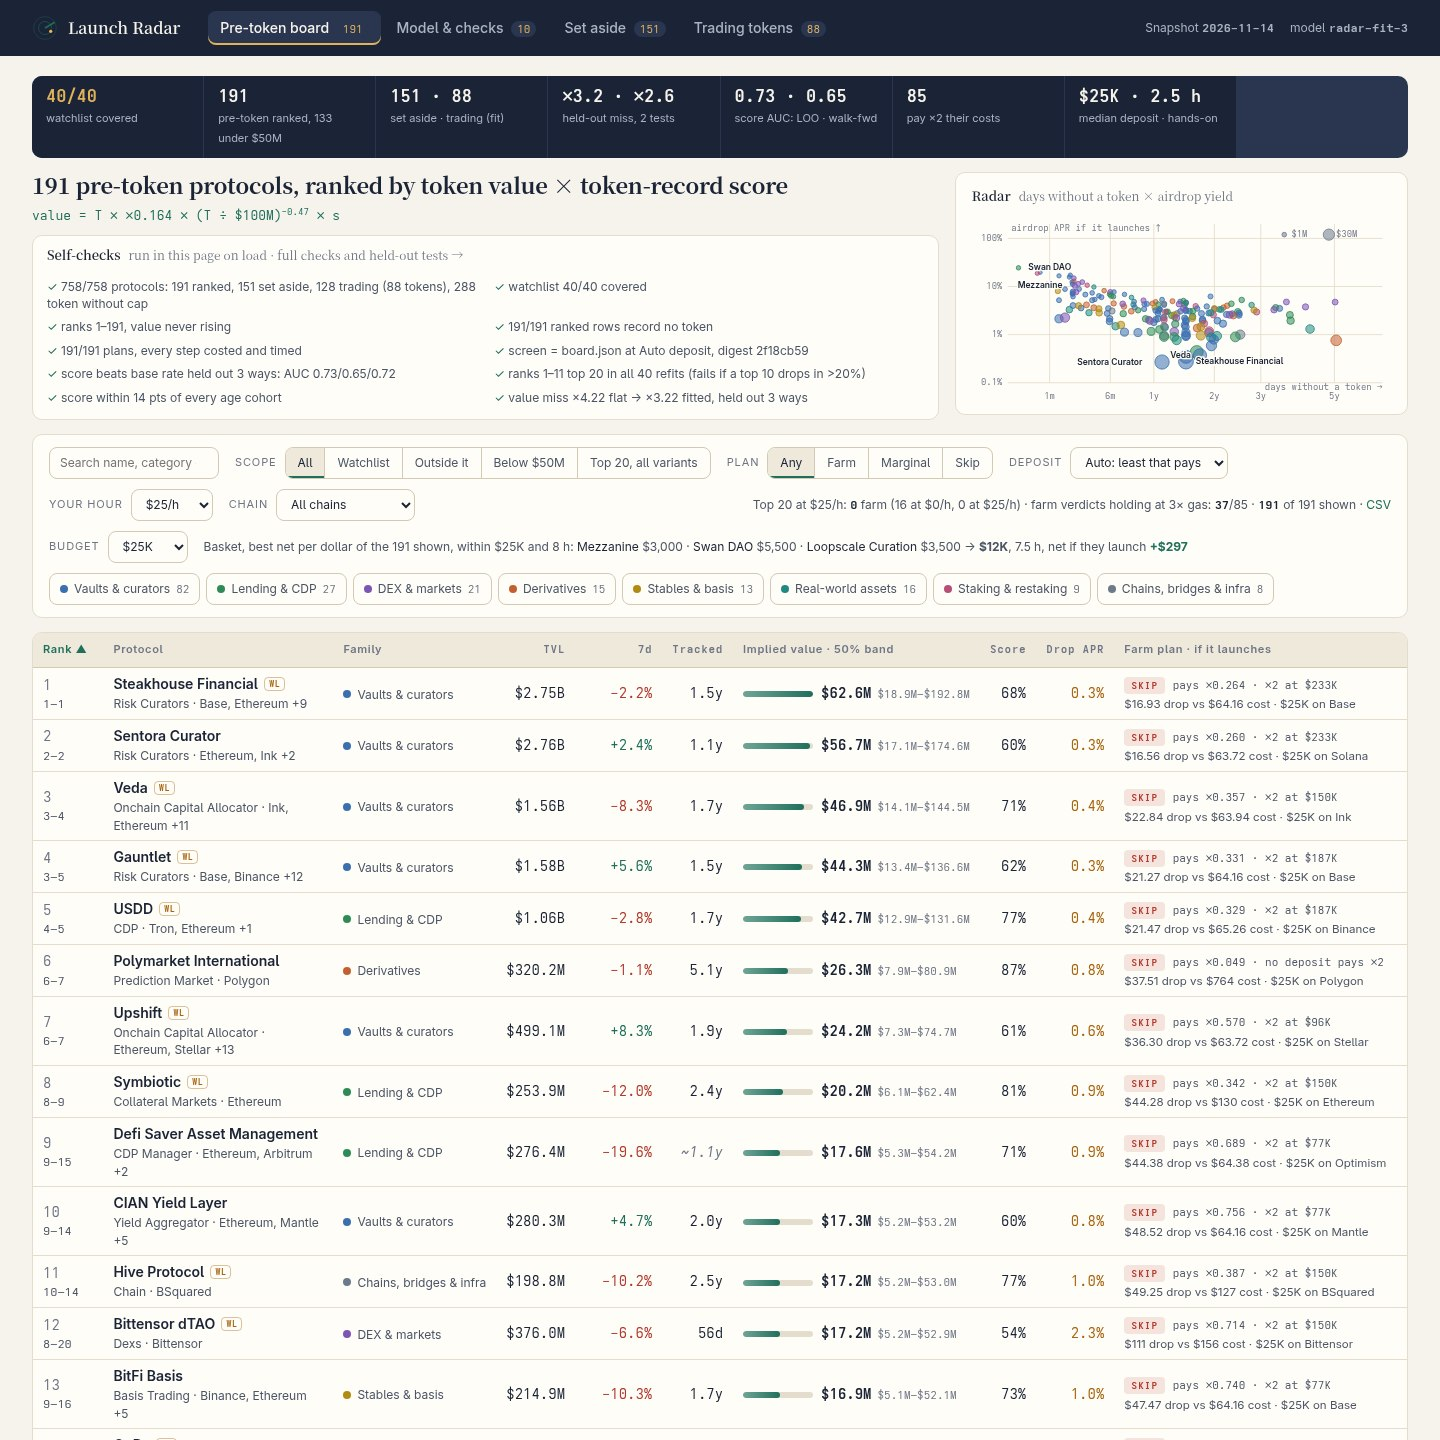
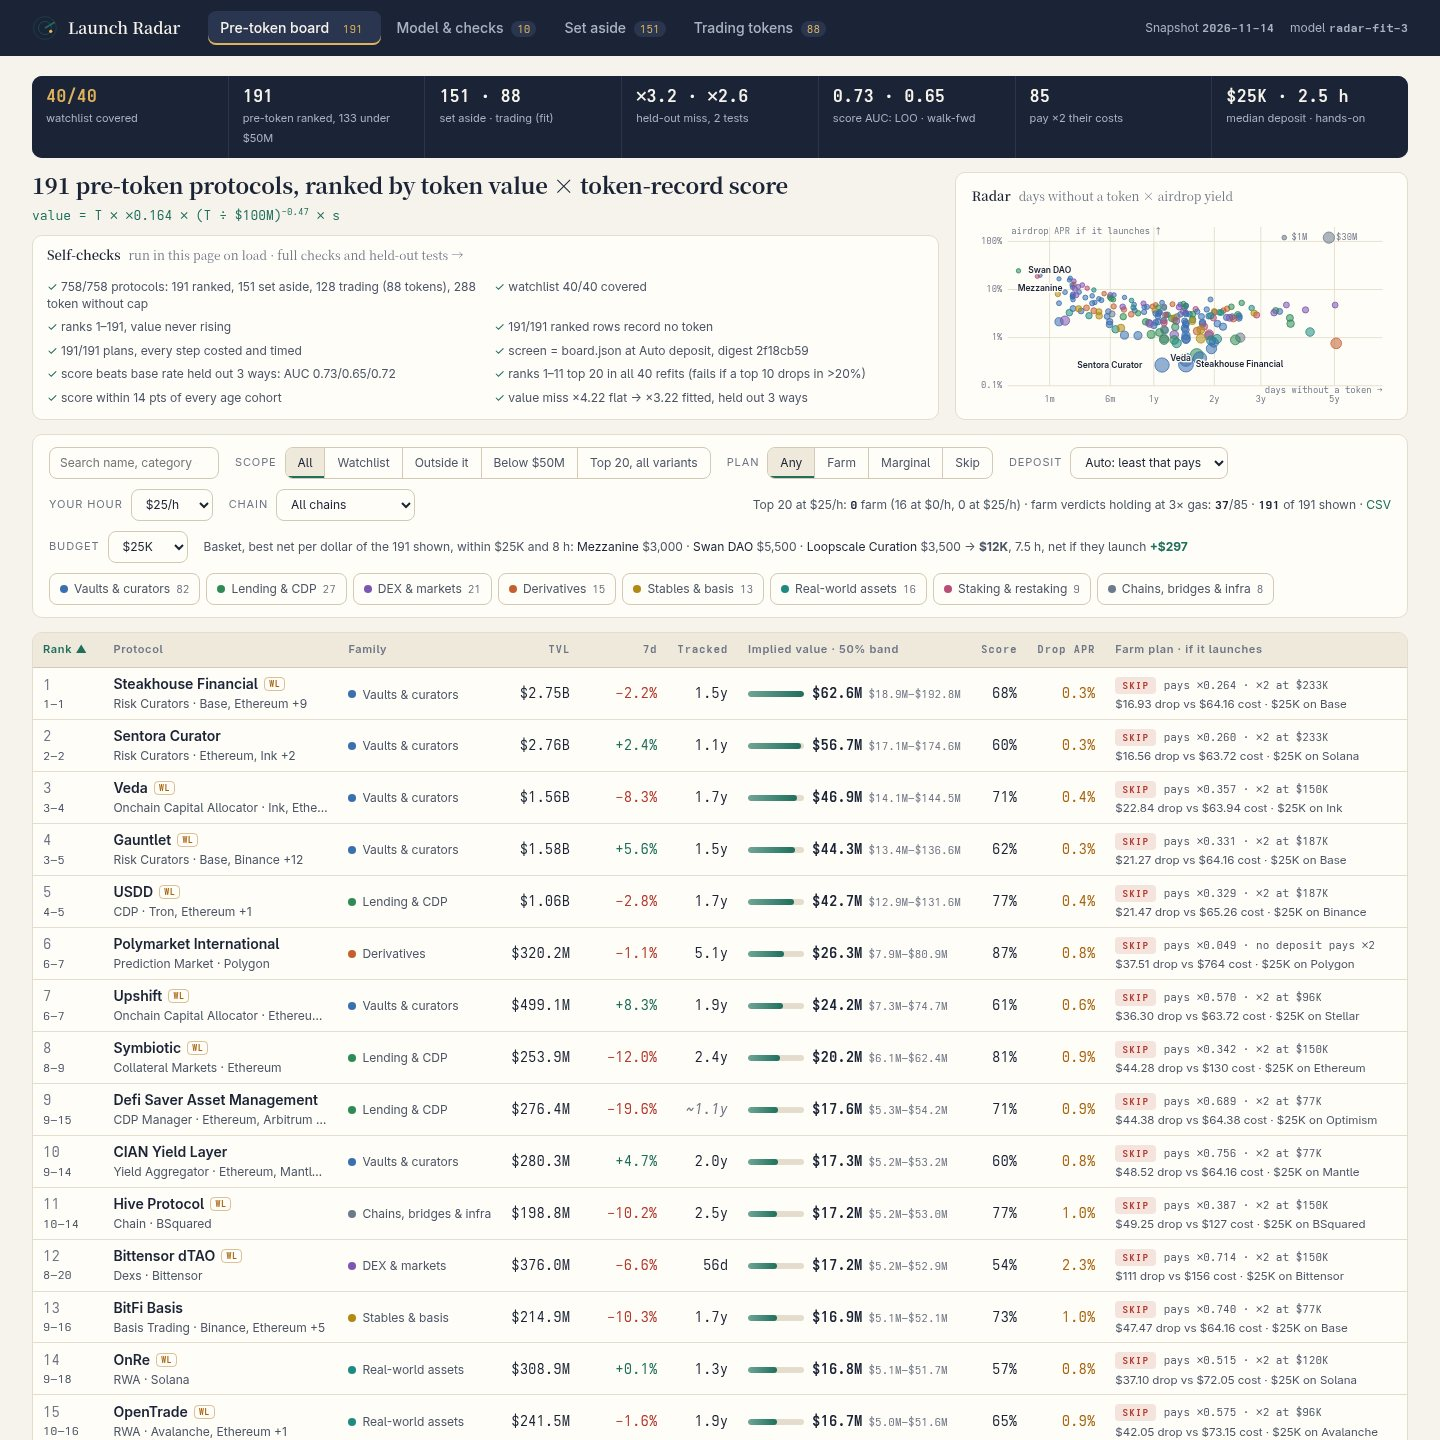
CSS pass: seven-cell KPI strip (no empty slot), one-line protocol subtitles for even rows, columns fit the plan text, radar card matches the controls' height, comparison headers and winners styled

diff --git a/dashboard/style.css b/dashboard/style.css
@@ -43,7 +43,7 @@ main{padding:20px 32px 24px;max-width:1440px;margin:0 auto;}
 .risk b{color:var(--red);}
 .hero.slim{grid-template-columns:2fr 1fr;align-items:start;}
 .lead h1{font-size:22px;line-height:1.22;font-weight:700;}
-.strip{display:grid;grid-template-columns:repeat(8,1fr);gap:1px;background:var(--line);border:var(--b1);border-radius:var(--r);overflow:hidden;margin-bottom:14px;}
+.strip{display:grid;grid-template-columns:repeat(7,1fr);gap:1px;background:var(--line);border:var(--b1);border-radius:var(--r);overflow:hidden;margin-bottom:14px;}
 .strip div{background:var(--panel);padding:10px 14px;}
 .strip b{display:block;font:600 17px var(--mono);color:var(--text);}
 .strip div:first-child b{color:var(--amber);}
@@ -115,12 +115,12 @@ td.rank{color:var(--dim);width:56px;}
 td.rank small{white-space:nowrap;}
 td.proto a,td.proto .nm{font-weight:600;}
 td.proto a:hover{color:var(--accent);}
-td.proto small{margin-top:1px;}
+td.proto small{margin-top:1px;display:block;max-width:215px;white-space:nowrap;overflow:hidden;text-overflow:ellipsis;}
 .wl{font:600 9px var(--mono);color:var(--amber);border:1px solid #a8640f66;border-radius:4px;padding:0 4px;margin-left:6px;vertical-align:2px;}
 .fam{display:inline-flex;align-items:center;gap:6px;font-size:12px;color:var(--muted);white-space:nowrap;}
 td.est{color:var(--dim);font-style:italic;}
-td.val{width:230px;white-space:nowrap;}
-td.val .bar{display:inline-block;width:70px;height:6px;border-radius:3px;background:var(--line);vertical-align:middle;margin-right:8px;overflow:hidden;}
+td.val{width:210px;white-space:nowrap;}
+td.val .bar{display:inline-block;width:56px;height:6px;border-radius:3px;background:var(--line);vertical-align:middle;margin-right:8px;overflow:hidden;}
 td.val .bar i{display:block;height:100%;background:linear-gradient(90deg,#6fa596,var(--accent));border-radius:3px;}
 td.val b{font-weight:600;}
 td.val small{display:inline;margin-left:6px;font:11px var(--mono);color:var(--dim);}
@@ -128,7 +128,7 @@ td.apr{color:var(--amber);}
 td.plan{white-space:nowrap;}
 td.plan .pmult{font:11px var(--mono);color:var(--muted);margin-left:4px;}
 td.plan small{display:block;margin-top:2px;font-size:11.5px;}
-td.proto{min-width:230px;}
+td.proto{min-width:215px;max-width:235px;}
 .verdict{display:inline-block;font:600 10px var(--mono);text-transform:uppercase;letter-spacing:.06em;padding:2px 7px;border-radius:4px;}
 .v-farm{background:#1f6f5c22;color:var(--accent);}
 .v-marginal{background:#a8640f22;color:var(--amber);}
@@ -184,8 +184,13 @@ td.proto{min-width:230px;}
 .foot{max-width:1440px;margin:0 auto;padding:8px 32px 28px;color:var(--dim);font-size:11.5px;}
 .basket{font-size:12.5px;color:var(--muted);flex-wrap:nowrap;}
 .basket a{color:var(--text);}
-.field.vs{float:right;margin-top:-6px;}
+.field.vs{float:right;margin:-6px 0 10px;}
 .field.vs select{max-width:260px;font-size:12px;}
 .tablewrap:has(.cmp){max-width:860px;}
 .cmp td:first-child{color:var(--muted);}
-.cmp td.num b{color:var(--accent);}
+.cmp td.num b{color:var(--accent);background:#1f6f5c14;padding:2px 7px;border-radius:4px;}
+.cmp th{font:600 14px var(--serif);color:var(--text);letter-spacing:0;padding:10px 14px;}
+.cmp td{padding:8px 14px;}
+.board tbody tr:hover td{background:#1f6f5c0a;}
+.hero.slim .chartcard{align-self:stretch;display:flex;flex-direction:column;}
+.hero.slim .chartcard .radar{margin:auto 0;}
